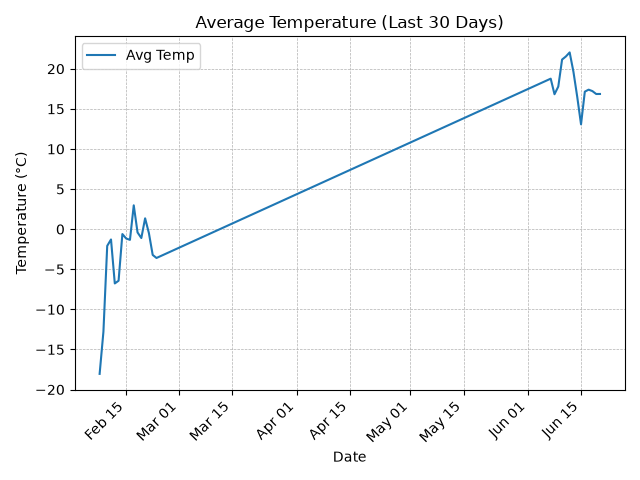
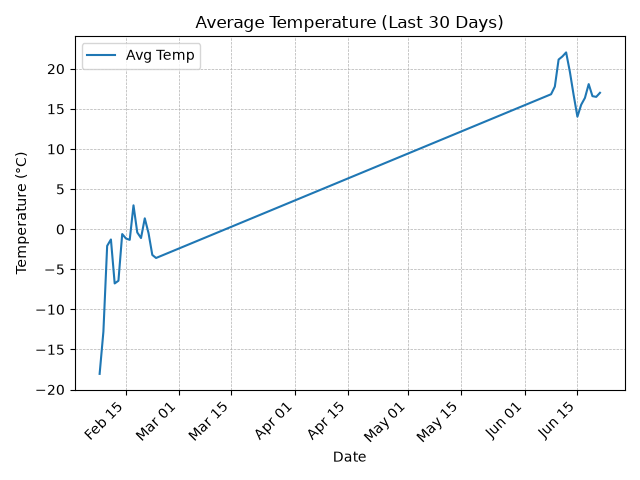
Daily update ETL outputs

diff --git a/README.md b/README.md
@@ -4,12 +4,12 @@ Automated end-to-end ETL pipeline that pulls daily-updating **weather + air qual
 
 ## Latest KPI snapshot
 
-- Date: **2026-06-20**
-- Avg Temp (°C): **16.86**
-- Max Temp (°C): **21.0**
-- Total Precip (mm): **0.9**
-- Avg Wind (km/h): **17.8**
-- Max Wind (km/h): **20.6**
+- Date: **2026-06-21**
+- Avg Temp (°C): **17.0**
+- Max Temp (°C): **21.6**
+- Total Precip (mm): **0.0**
+- Avg Wind (km/h): **11.05**
+- Max Wind (km/h): **15.9**
 - PM2.5 Avg (µg/m³): **NA**
 - PM2.5 Peak (µg/m³): **NA**
 
